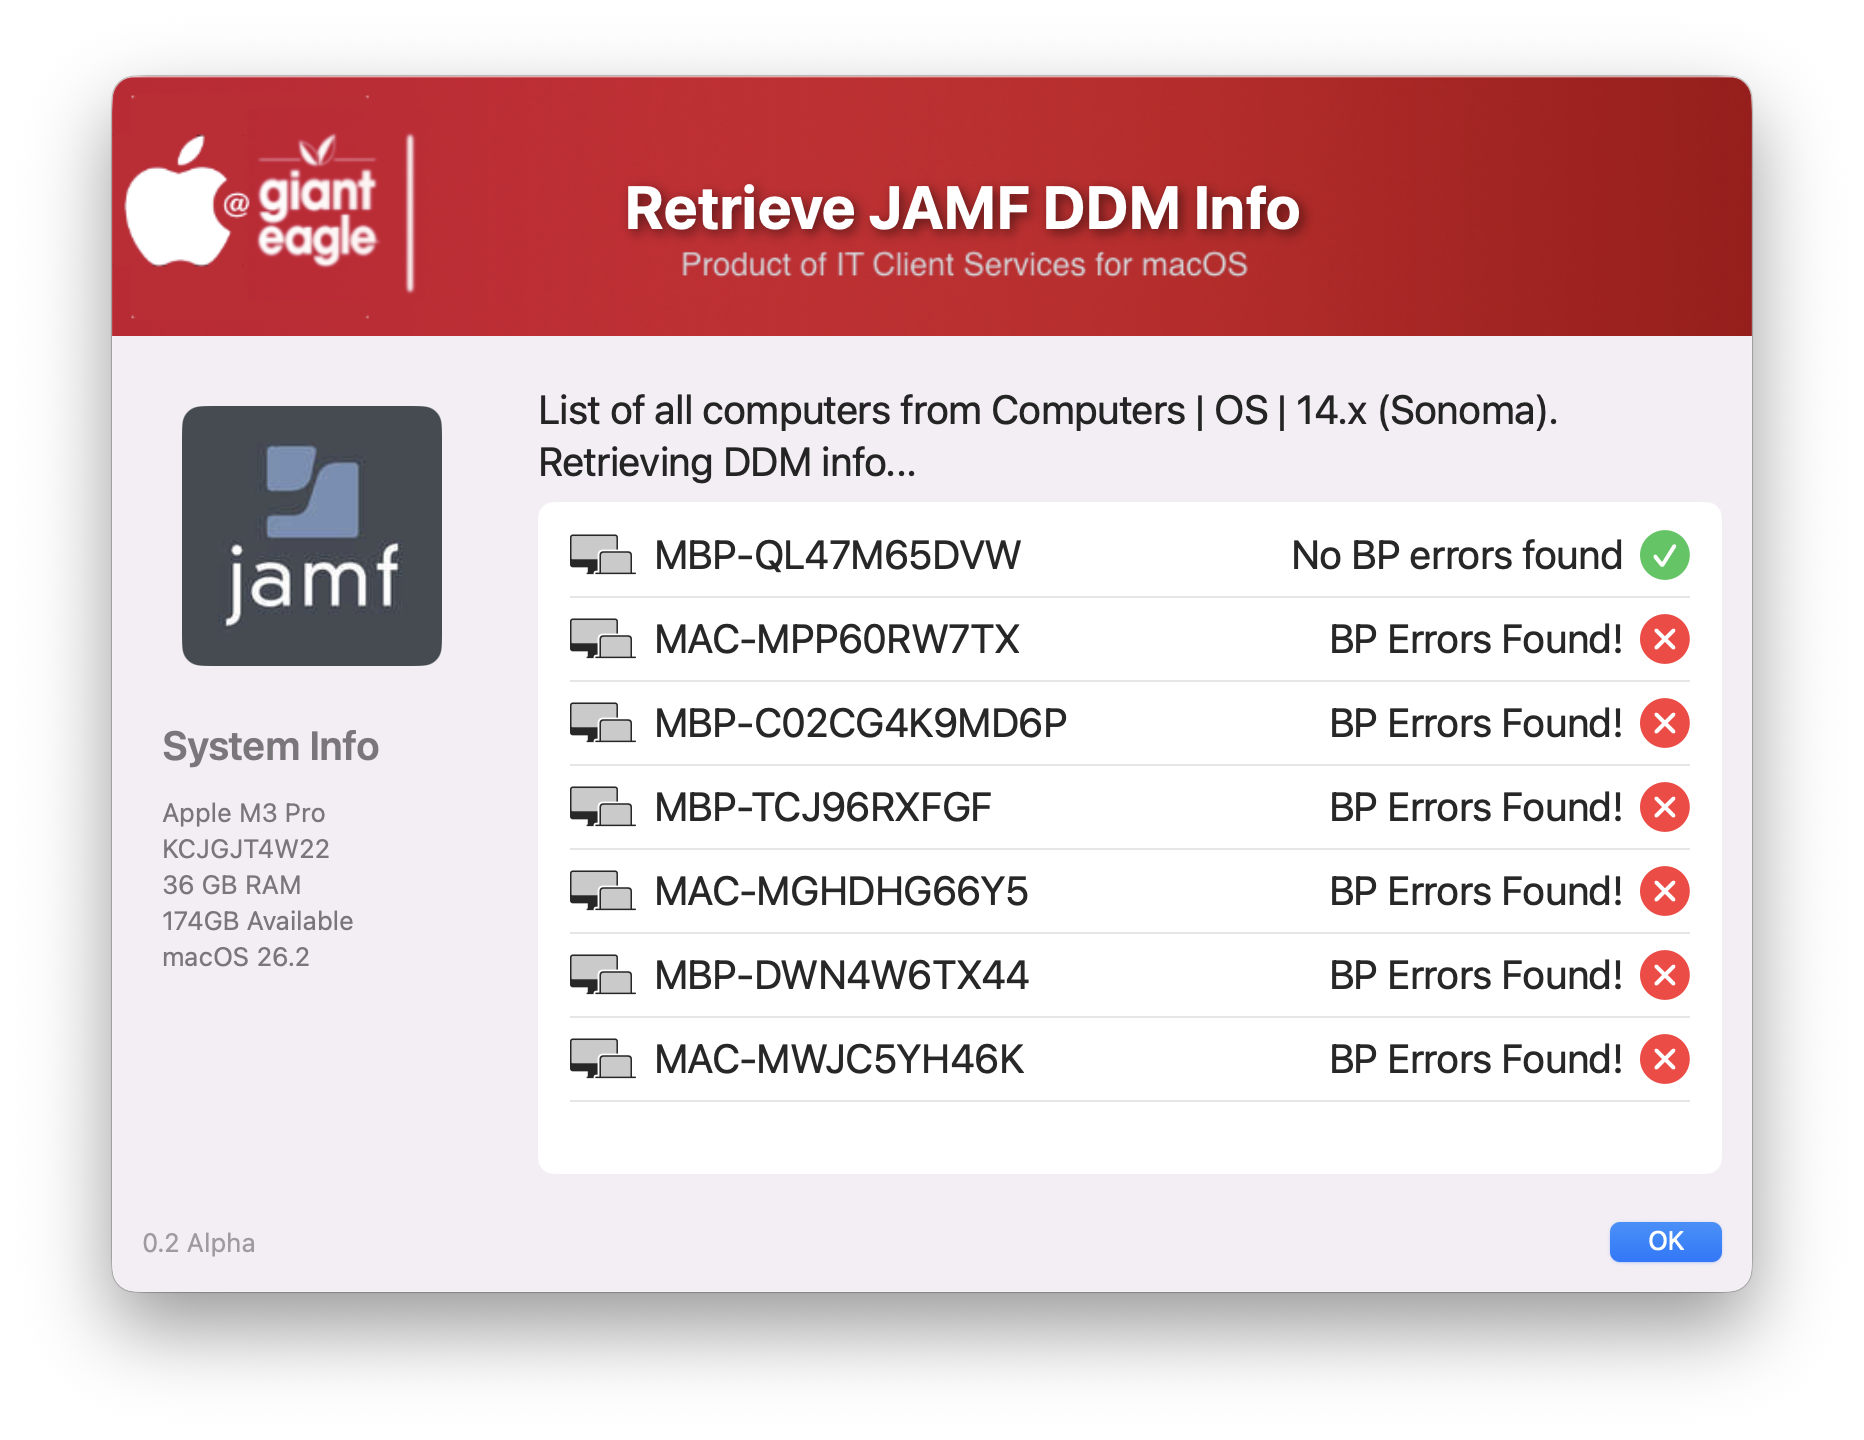
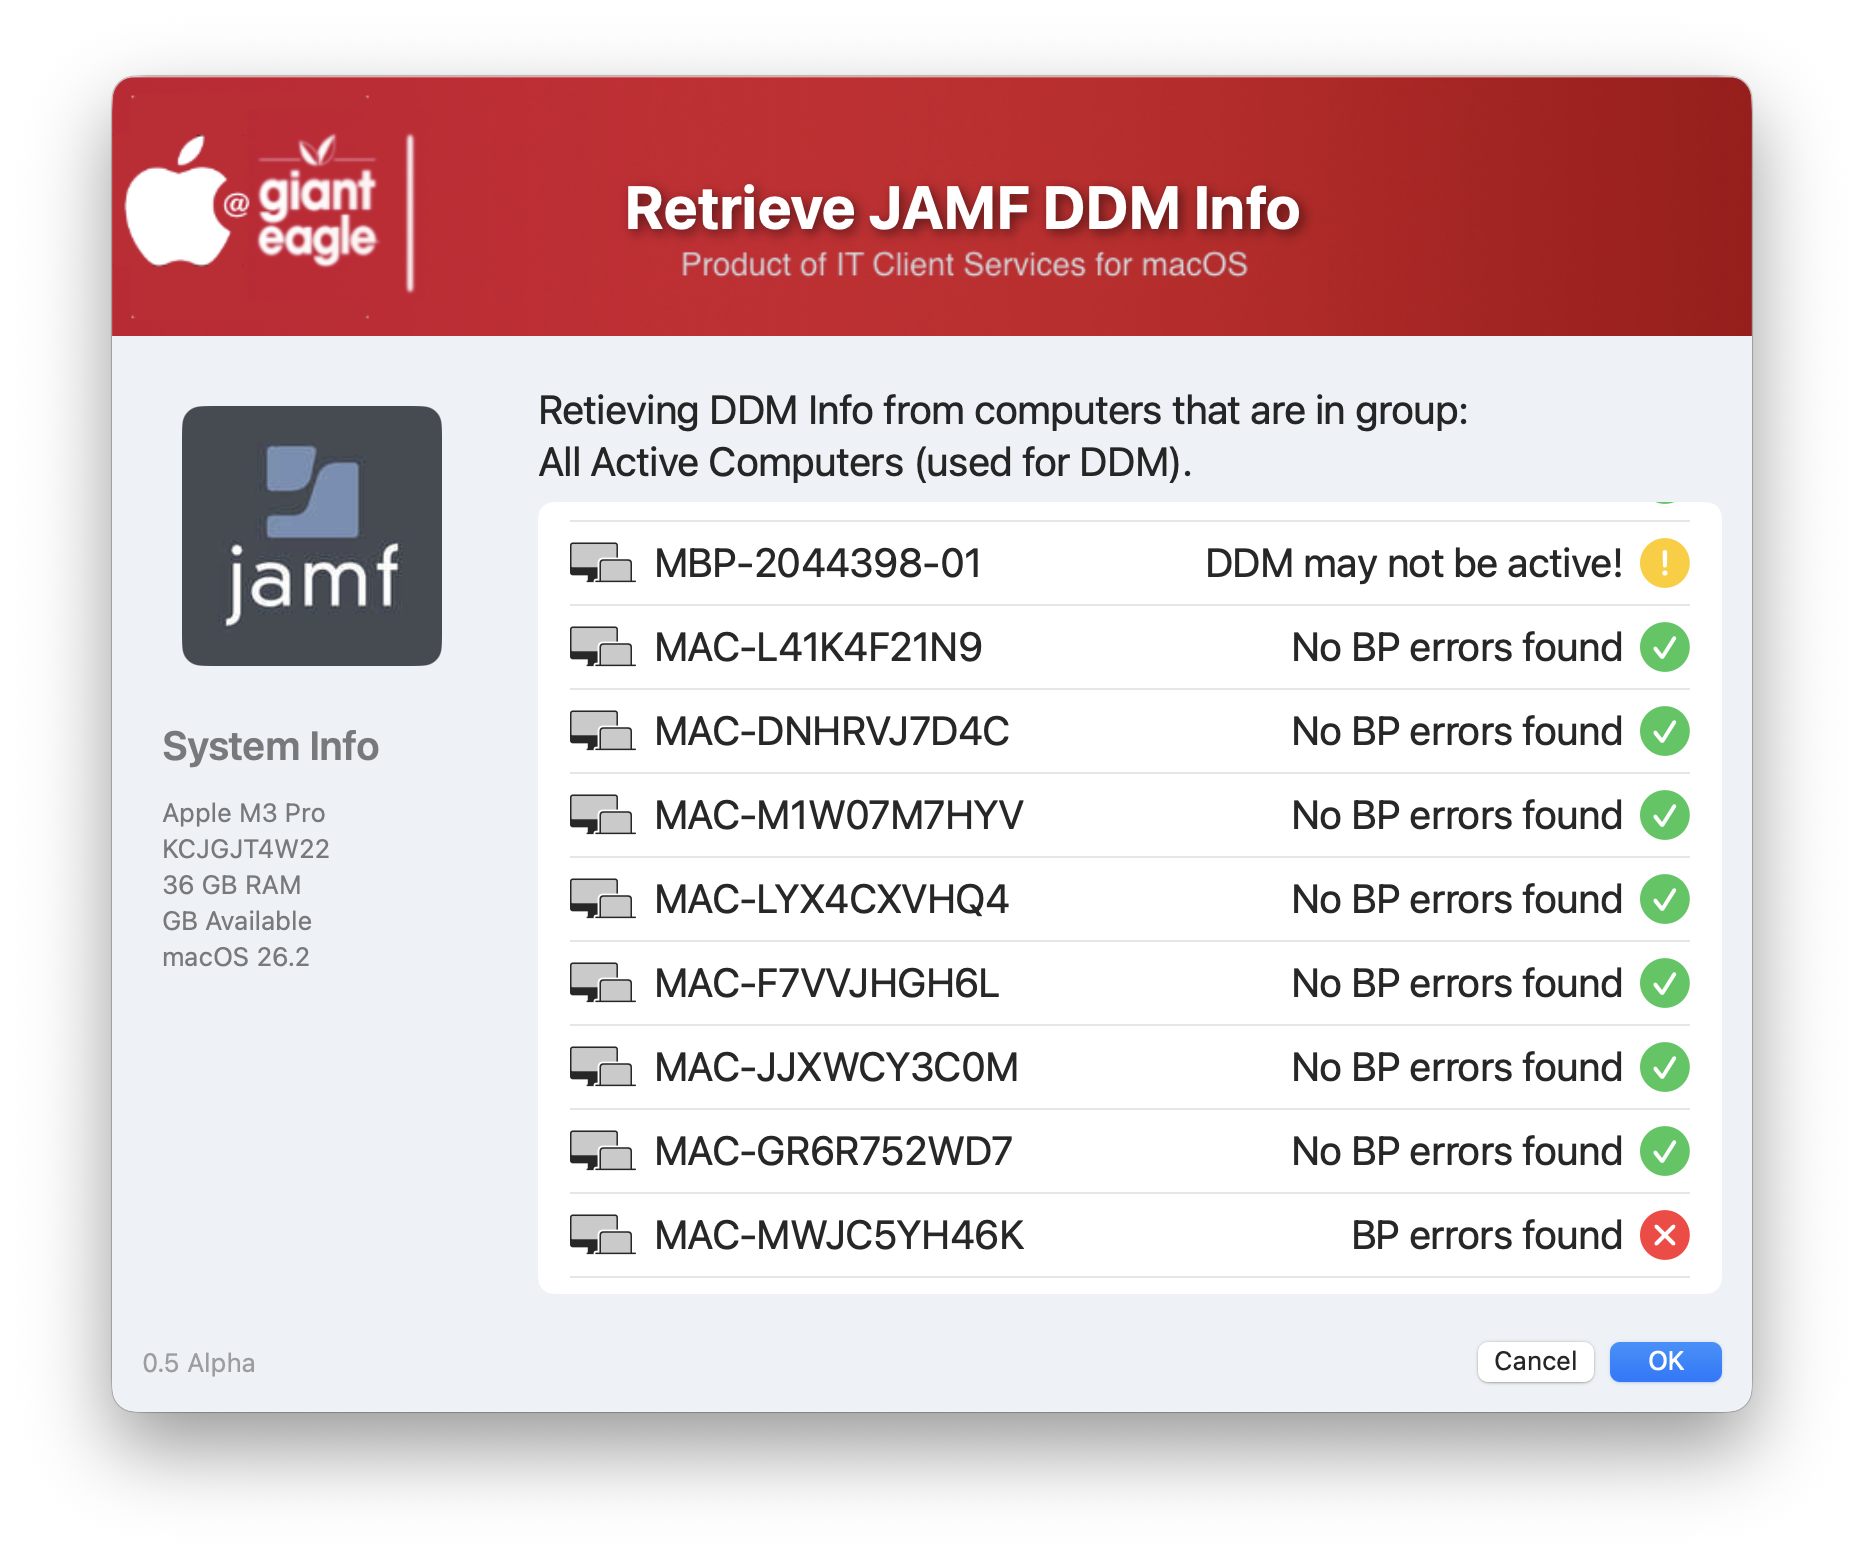
Get more detailed JAMF Blueprint DDM info

diff --git a/JAMFGetDDMInfo/README.md b/JAMFGetDDMInfo/README.md
@@ -50,6 +50,11 @@ If you have any ideas/suggestions on how to improve the DDM reporting ability, p
 ||      Took advantage of some AI Tools to optimize the "common" section and optimize more JAMF functions
 ||      Removed the extra verbiage at the end of the Blueprint IDs
 ||      Added button to open the Blueprint links in your browser
+| 0.6 | Add more safety net around the JQ command to make sure it won't error out.
+||       More detailed reporting in CSV file
+||       Reported if DDM is not enabled on a system.
+| 0.7 | Background processing!  Major speed improvement
+||      Progress during list items to show actual progress
 
 
 ## Gemini results of what can be extracted from JAMF about DDM: ##
